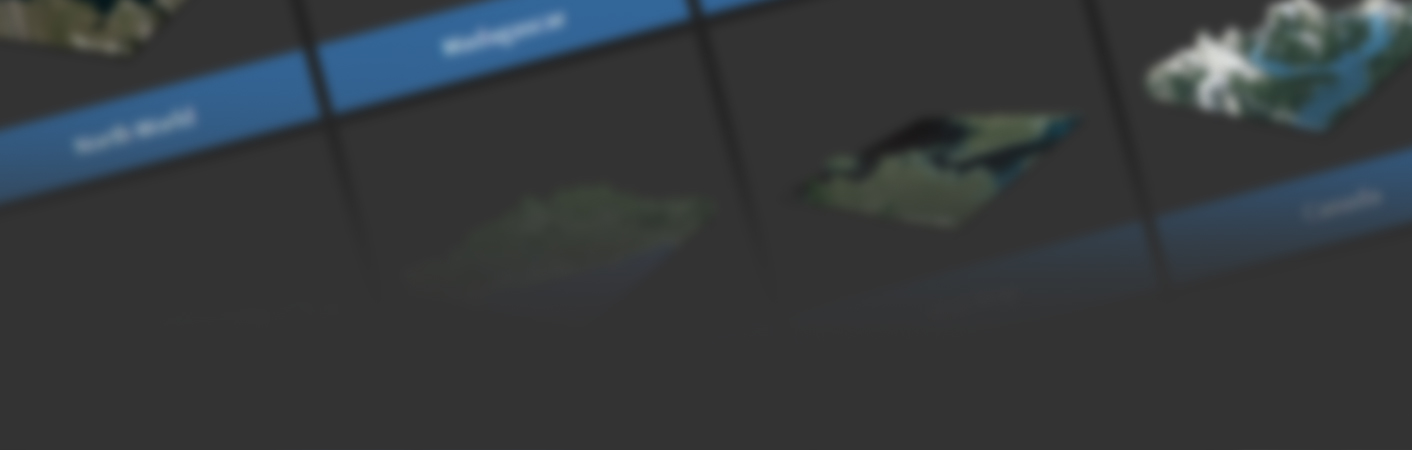
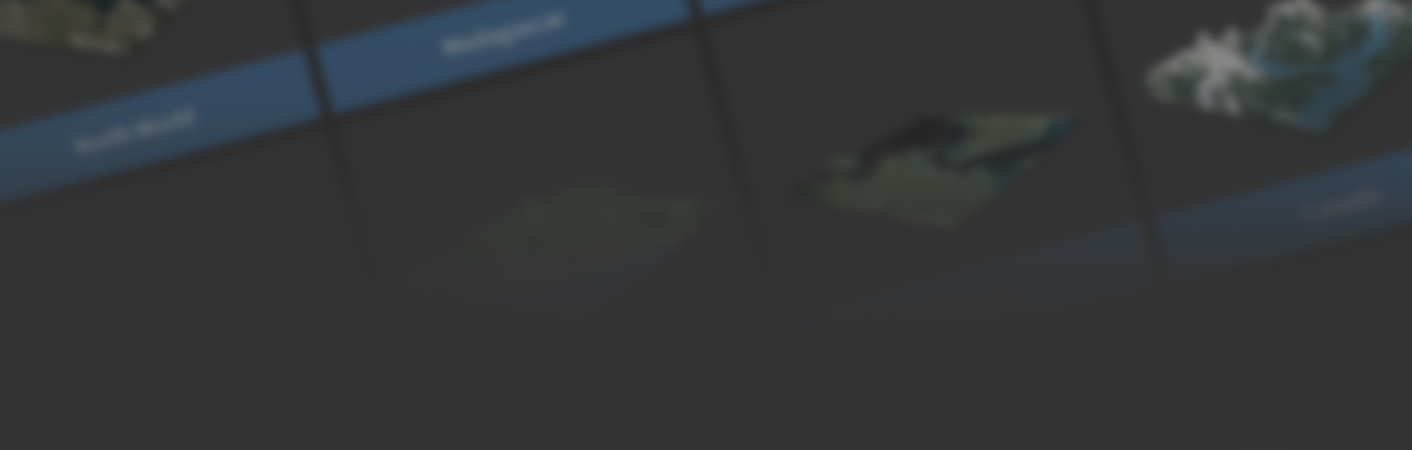
Added new env background image, altered recent bg image

diff --git a/sass/_main.scss b/sass/_main.scss
@@ -28,6 +28,10 @@
     background: url(/img/recent-bg.jpg);
 }
 
+.fixed-header--newenv {
+    background: url(/img/newenv-bg.jpg);
+}
+
 #fixed-header > .align-vertical {
     display: table-cell;
     vertical-align: middle;

diff --git a/views/new-environment.php b/views/new-environment.php
@@ -4,7 +4,7 @@
         header('location: /signin');
     }
 ?>
-<header id="fixed-header" class="section-padding">
+<header id="fixed-header" class="fixed-header--newenv section-padding">
     <hgroup class="align-vertical">
         <h1>CLONE A NEW ENVIRONMENT</h1>
     </hgroup>
@@ -12,7 +12,7 @@
 
 <main>
 
-    <section id="new-env-interface" class="sdgrey">
+    <section id="new-env-interface">
         <div class="align-centre mblue">
             <input type="text" placeholder="Search Box" id="pac-input" class="controls">
             <div id="new-env-map"></div>
